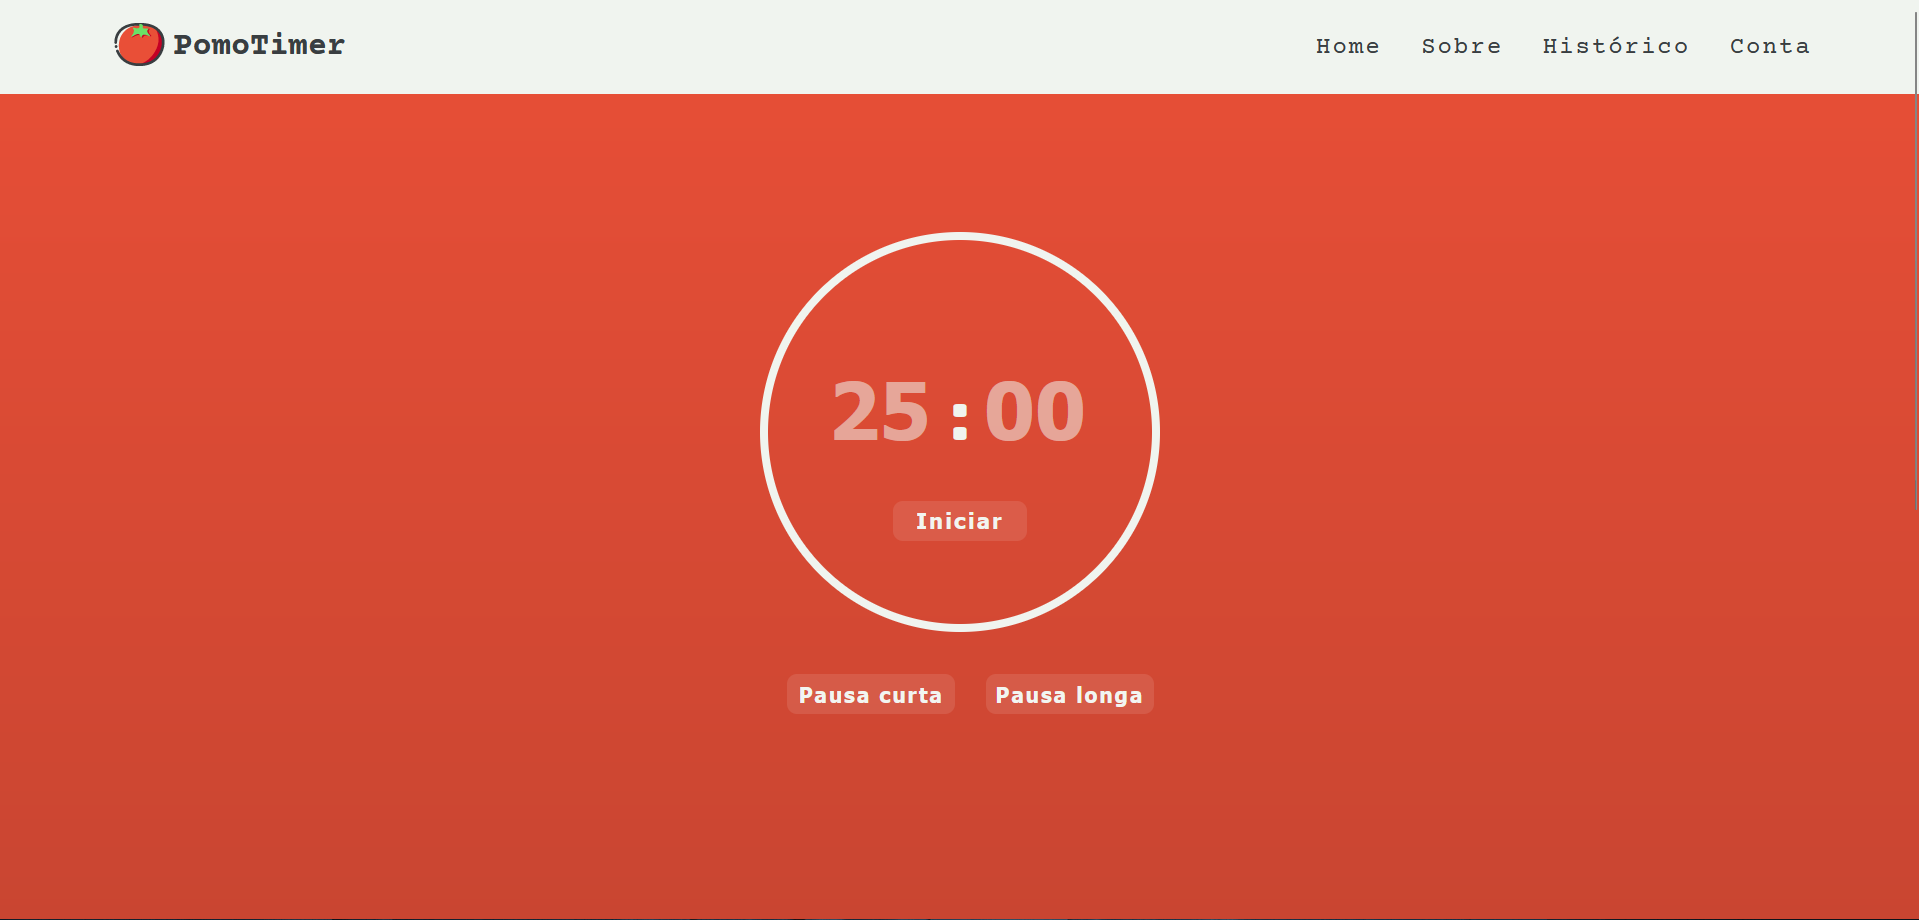
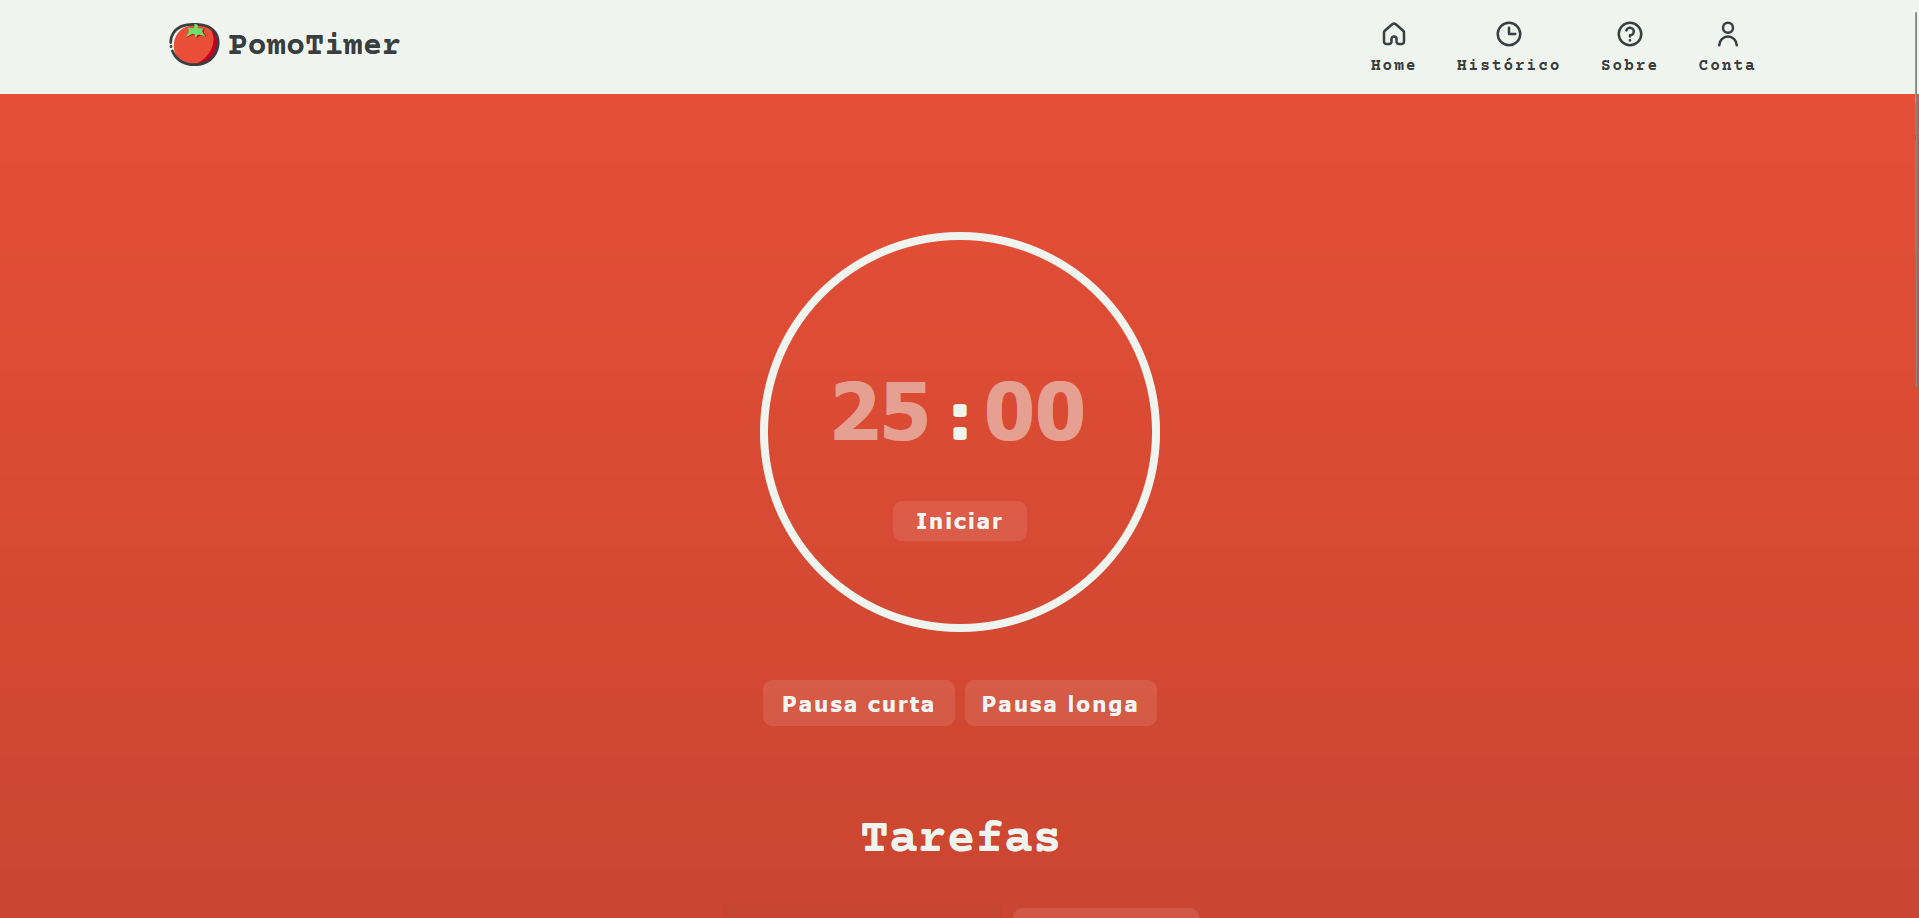
🍅 PomoTimer

diff --git a/index.html b/index.html
@@ -17,18 +17,17 @@
         <section>
             <head>
                 <nav>
-                    
                     <ul class="nav-bar">
                         <div class="logo-container"><img id="logo" src="assets/svg/site-logo.svg" alt="site logo"></div>
                         <input type="checkbox" id="check"><h1 class="site-name">PomoTimer</h1>
                         <span class="menu">
                             <label for="check" class="close-menu"><img src="assets/svg/close-menu.svg" alt="close menu button" width="32px"></label>
                             <ul>
-                                <li><a href="#home" class="nav-button">Home</a></li>
-                                <li><a href="pages/history.html" class="nav-button">Histórico</a></li>
-                                <li><a href="#about" class="nav-button">Sobre</a></li>
+                                <li><a class="nav-button" href="#"><img class="nav-image" src="../assets/svg/home.svg" alt="home"><h1 class="nav-label">Home</h1></a></li>
+                                <li><a class="nav-button" href="pages/history.html"><img class="nav-image" src="../assets/svg/history.svg" alt="history"><h1 class="nav-label">Histórico</h1></a></li>
+                                <li><a class="nav-button" href="#about"><img class="nav-image" src="../assets/svg/help.svg" alt="help"><h1 class="nav-label">Sobre</h1></a></li>
                                 <span class="desktop-login">
-                                    <li><a href="pages/login.html" class="nav-button">Conta</a></li>
+                                    <li><a class="nav-button" href="pages/login.html"><img class="nav-image" src="../assets/svg/user.svg" alt="account"><h1 class="nav-label">Conta</h1></a></li>
                                 </span>
                             </ul>
                         </span>

diff --git a/pages/history.html b/pages/history.html
@@ -11,6 +11,28 @@
     <title>PomoTimer - Histórico</title>
 </head>
 <body>
-    
+    <main>
+        <section>
+            <head></head>
+                <nav>
+                    <ul class="nav-bar">
+                        <div class="logo-container"><img id="logo" src="../assets/svg/site-logo.svg" alt="site logo"></div>
+                        <input type="checkbox" id="check"><h1 class="site-name">PomoTimer</h1>
+                        <span class="menu">
+                            <ul>
+                                <li><a class="nav-button" href="../index.html"><img class="nav-image" src="../assets/svg/home.svg" alt="home"><h1 class="nav-label">Home</h1></a></li>
+                                <li><a class="nav-button" href="#"><img class="nav-image" src="../assets/svg/filter.svg" alt="filter"><h1 class="nav-label">Filtrar</h1></a></li>
+                                <li><a class="nav-button" href="#"><img class="nav-image" src="../assets/svg/sort.svg" alt="sort"><h1 class="nav-label">Ordenar</h1></a></li>
+                                <li><a class="nav-button" href="#"><img class="nav-image" src="../assets/svg/clear.svg" alt="clear"><h1 class="nav-label">Limpar</h1></a></li>
+                            </ul>
+                        </span>
+                    </ul>
+                </nav>
+            </head>
+        </section>
+        <section>
+            
+        </section>
+    </main>
 </body>
 </html>

diff --git a/css/history.css b/css/history.css
@@ -21,3 +21,77 @@ body {
     font-family: "Courier Prime", monospace;
 }
 
+/* Top navigator bar and it's elements */
+
+#logo {
+    width: 65px;
+}
+
+.site-name {
+    font-size: 2rem;
+    color: var(--color3);
+}
+
+.nav-bar {
+    background-color: var(--color1);
+    width: 100%;
+    margin: 0;
+    display: flex;
+    justify-content: center;
+    align-items: center;
+    list-style: none;
+    position: fixed;
+    top: 0;
+    z-index: 100;
+    padding: 12px 20px;
+}
+
+.nav-image {
+    width: 30px;
+}
+
+.nav-label {
+    font-size: 1rem;
+}
+
+.nav-button::before {
+    content: '';
+    position: absolute;
+    width: 100%;
+    height: 4px;
+    border-radius: 4px;
+    background-color: var(--color2);
+    bottom: 0;
+    left: 0;
+    transform-origin: right;
+    transform: scaleX(0);
+    transition: transform .2s ease-in-out;
+}
+
+.nav-button:hover::before {
+    transform-origin: left;
+    transform: scaleX(1);
+}
+
+.menu {
+    display: flex;
+    margin-left: 50%;
+    li {
+        padding-left: 30px;
+    }
+    a {
+        font-size: 1.5rem;
+    }
+    li, a {
+        display: inline-block;
+        color: var(--color3);
+        text-decoration: none;
+        text-align: center;
+        position: relative;
+        letter-spacing: 2px;
+    }
+}
+
+#check {
+    display: none;
+}

diff --git a/css/main.css b/css/main.css
@@ -87,6 +87,15 @@ footer {
     padding: 12px 20px;
 }
 
+.nav-image {
+    width: 30px;
+}
+
+.nav-label {
+    font-size: 1rem;
+    color: var(--color3);
+}
+
 .nav-button::before {
     content: '';
     position: absolute;
@@ -550,6 +559,16 @@ mark.red {
 
     .site-name {
         font-size: 1rem;
+    }
+
+    .nav-image {
+        width: 30px;
+    }
+    
+    .nav-label {
+        font-size: 1.5rem;
+        color: var(--color3);
+        margin-left: 5%;
     }
 
     .menu {

diff --git a/README.md b/README.md
@@ -8,13 +8,14 @@
 <div>
  <img src="assets/screenshot/Screenshot_1.png">
  <img src="assets/screenshot/Screenshot_2.png">
+ <img src="assets/screenshot/Screenshot_3.png">
 </div>
 
 <h1>To-do list</h1>
 
-- [x] Estilizar o site
-- [x] Criar a lógica do timer
-- [x] Criar a aba "Sobre"
-- [ ] Criar lógica e a aba do "Histórico"
-- [ ] Criar a lógica para vincular contas
-- [x] Publicar o projeto no GitHub Pages
+- [x] Estilizar o site;
+- [x] Criar a lógica do timer;
+- [x] Criar a aba "Sobre";
+- [ ] Criar lógica e a aba do "Histórico";
+- [ ] Criar a lógica para vincular contas;
+- [x] Publicar o projeto no GitHub Pages.
